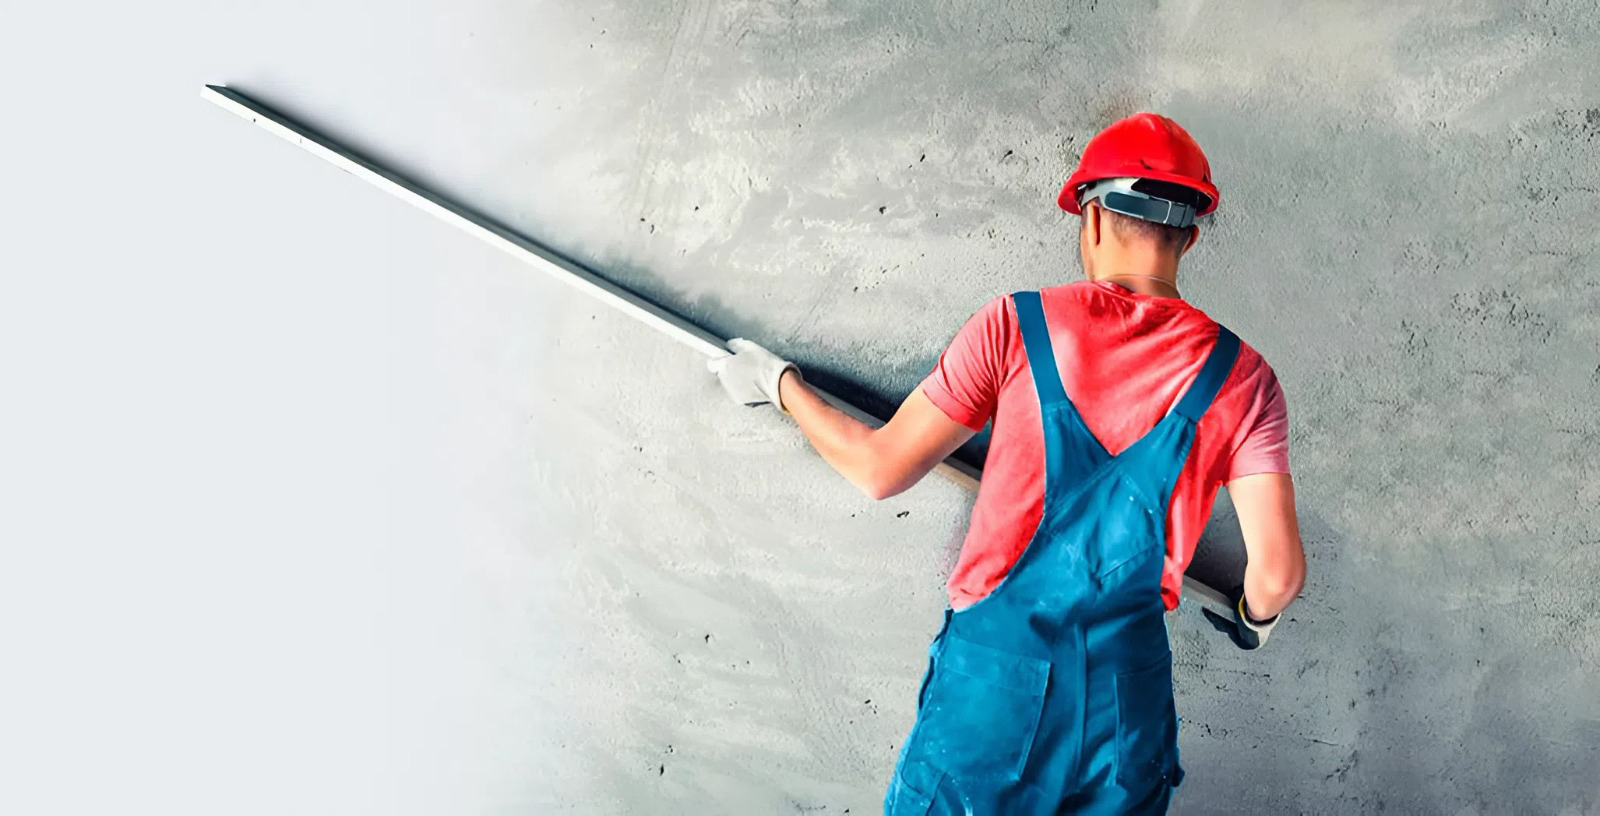
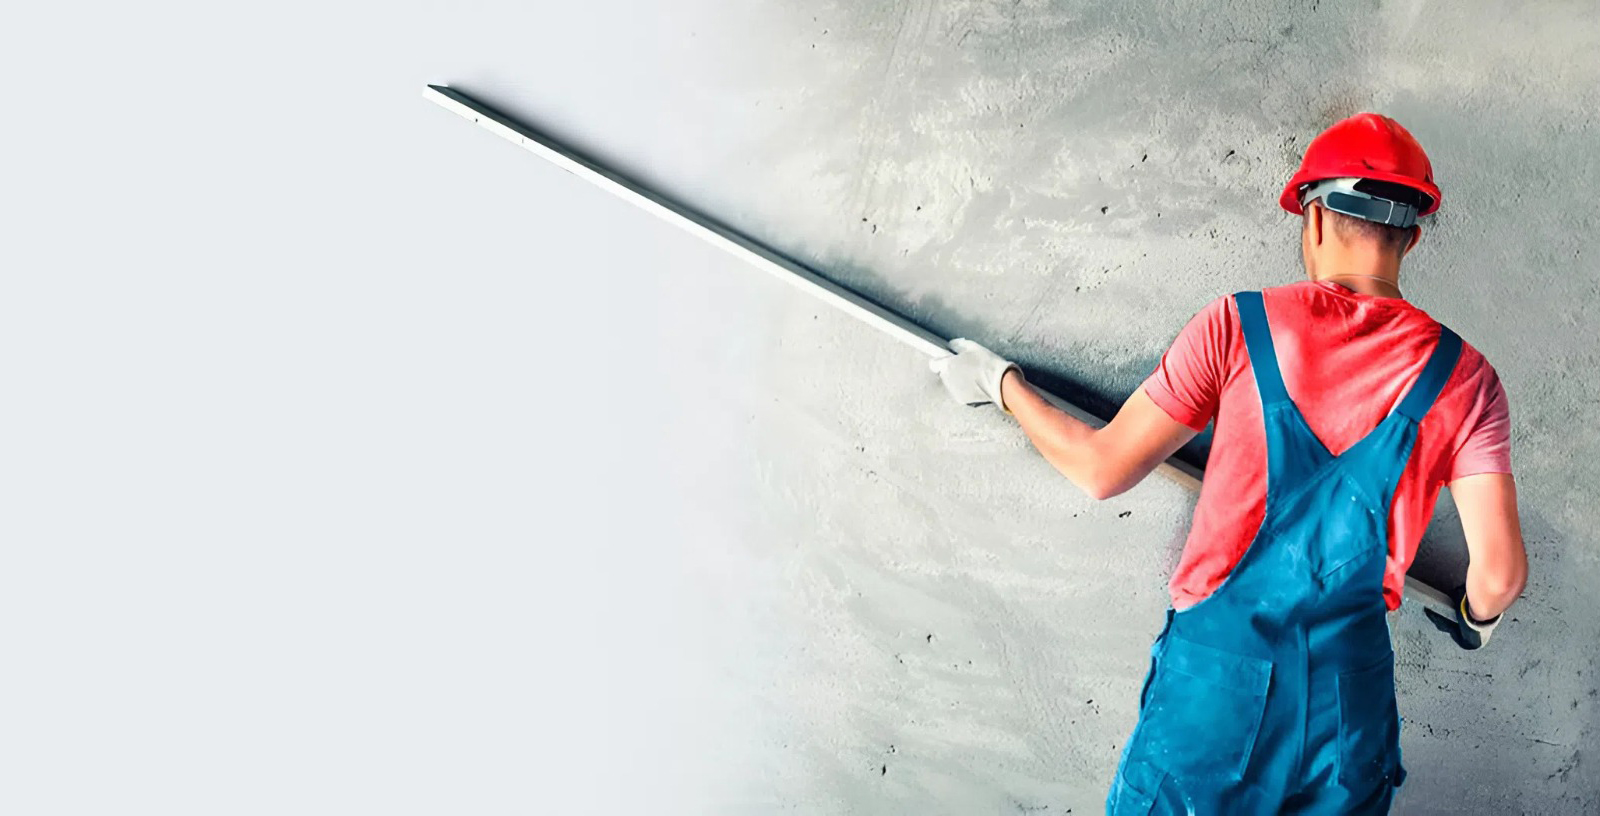
welcome finished

diff --git a/style.css b/style.css
@@ -141,14 +141,17 @@ img {
     cursor: pointer;
 }
 
-
 .welcome {
     padding: 200px 0;
-    background-image: url("./images/welcome-bg.jpeg");
-    background-size: contain;
-    background-position: center;
+    background: linear-gradient(rgba(0, 0, 0, 0.4), rgba(0, 0, 0, 0.4)),
+        url("./images/welcome-bg.jpeg");
     background-repeat: no-repeat;
+    background-size: contain;
+    background-position: center bottom;
 }
+
+
+
 
 .welcome__title {
     font-weight: 700;
